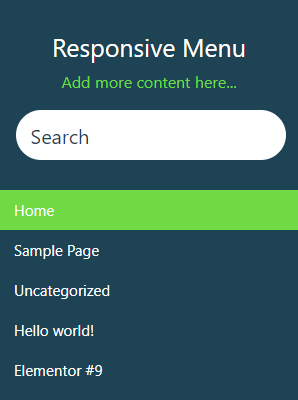
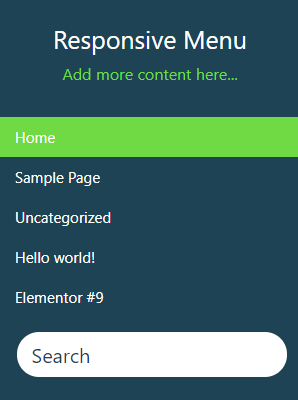
Updated default theme options

diff --git a/v4.0.0/inc/helpers/default-options.php b/v4.0.0/inc/helpers/default-options.php
@@ -758,11 +758,11 @@ function rmp_get_default_options() {
         'use_header_bar' => 'off',
         'header_bar_items_order' => 
           array (
-              'title' => 'on',
-              'search' => 'off',
-              'additional content' => 'off',
               'logo' => 'off',
+              'title' => 'on',
+              'additional content' => 'off',
               'menu' => 'on',
+              'search' => 'off',
           ),
         'header_bar_title' => 'Responsive Menu',
         'header_bar_html_content' => '',
@@ -984,8 +984,8 @@ function rmp_get_default_options() {
           array (
               'title' => 'on',
               'additional content' => 'on',
-              'search' => 'on',
               'menu' => 'on',
+              'search' => 'on',
           ),
         'menu_title' => 'Responsive Menu',
         'menu_title_link' => '',
@@ -1017,7 +1017,7 @@ function rmp_get_default_options() {
           array (
               'top' => '0%',
               'right' => '5%',
-              'bottom' => '5%',
+              'bottom' => '10%',
               'left' => '5%',
           ),
         'menu_additional_content_font_size' => '16',
@@ -1027,12 +1027,12 @@ function rmp_get_default_options() {
         'menu_search_box_text' => 'Search',
         'menu_search_section_padding' => 
           array (
-              'top' => '0%',
+              'top' => '5%',
               'right' => '5%',
               'bottom' => '5%',
               'left' => '5%',
           ),
-        'menu_search_box_height' => '50',
+        'menu_search_box_height' => '45',
         'menu_search_box_height_unit' => 'px',
         'menu_search_box_border_radius' => '30',
         'menu_search_box_text_colour' => '#1d4354',
